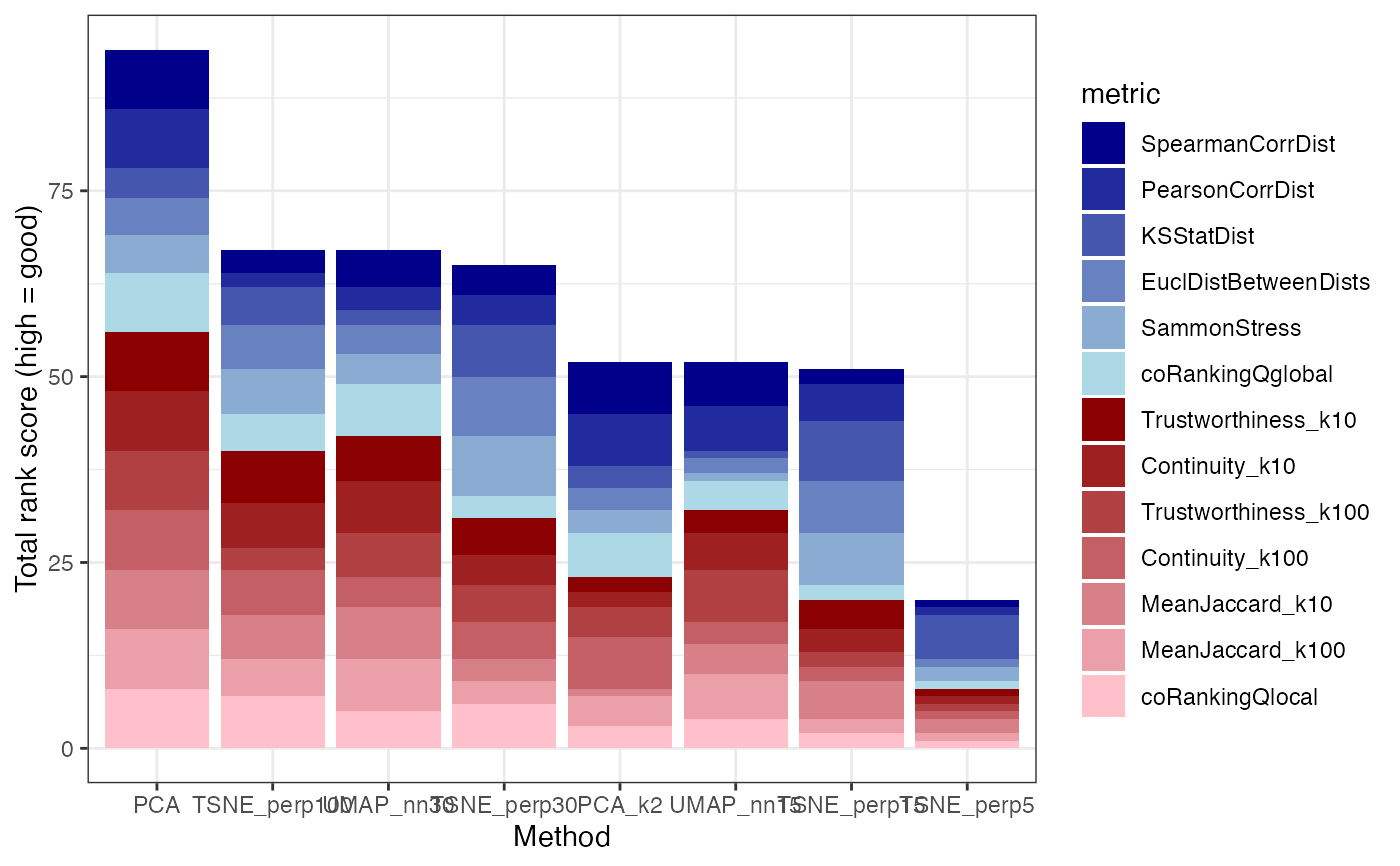
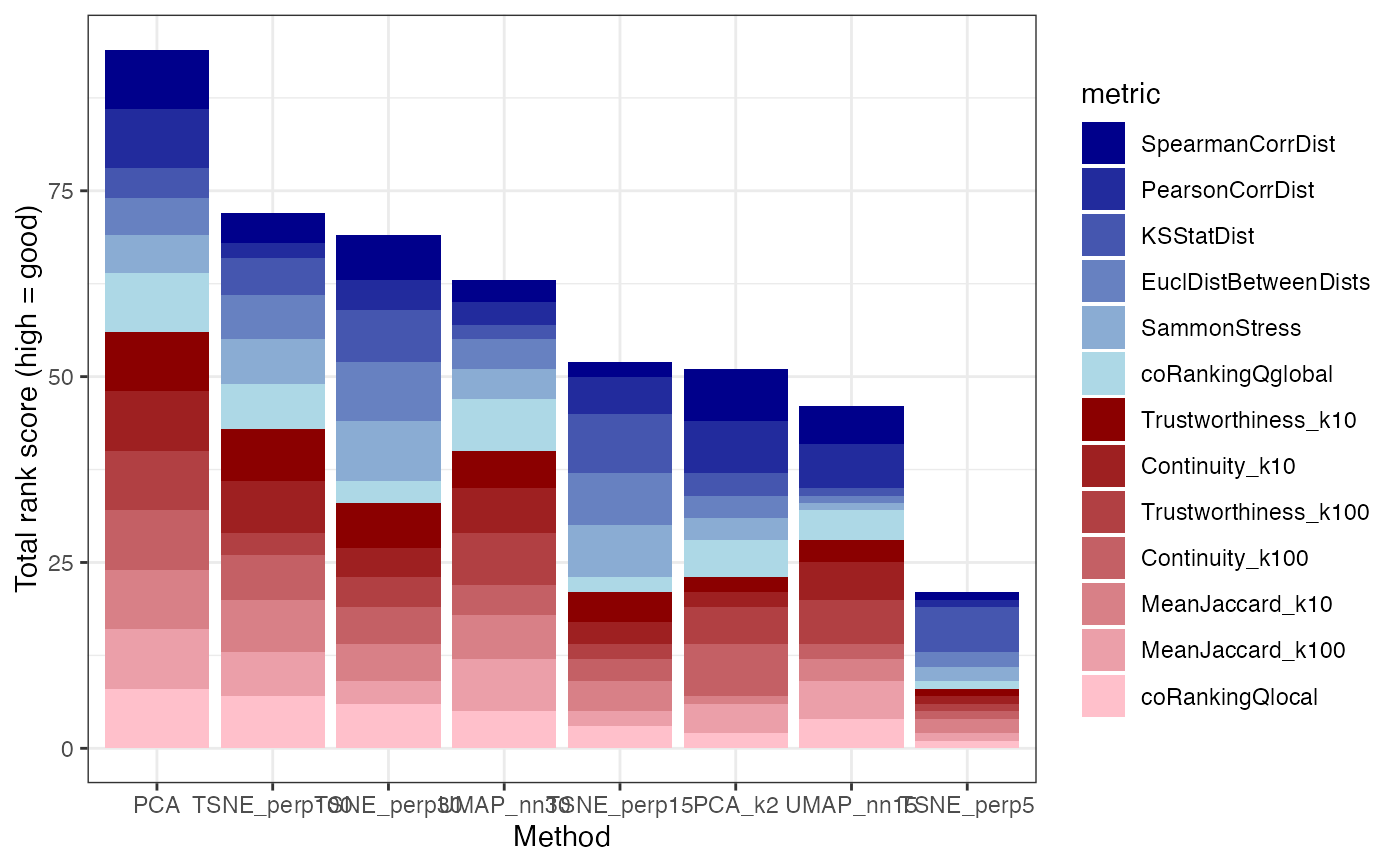
Built site for dreval@0.1.6: b1e7674

Changed region(s): [[0.1536, 0.2182, 0.7371, 0.873], [0.215, 0.9042, 0.645, 0.9353]]

diff --git a/articles/dreval.html b/articles/dreval.html
@@ -90,7 +90,7 @@
                         <h4 data-toc-skip class="author">Charlotte
 Soneson</h4>
             
-            <h4 data-toc-skip class="date">2025-07-17</h4>
+            <h4 data-toc-skip class="date">2026-06-12</h4>
       
       <small class="dont-index">Source: <a href="https://github.com/csoneson/dreval/blob/master/vignettes/dreval.Rmd" class="external-link"><code>vignettes/dreval.Rmd</code></a></small>
       <div class="hidden name"><code>dreval.Rmd</code></div>
@@ -201,14 +201,14 @@ visually with the <code><a href="../reference/plotRankSummary.html">plotRankSumm
 <span><span class="co">#&gt; <span style="color: #00BBBB;">ℹ</span> Please use `after_stat(density)` instead.</span></span>
 <span><span class="co">#&gt; <span style="color: #00BBBB;">ℹ</span> The deprecated feature was likely used in the <span style="color: #0000BB;">dreval</span> package.</span></span>
 <span><span class="co">#&gt;   Please report the issue at <span style="color: #0000BB; font-style: italic;">&lt;https://github.com/csoneson/dreval/issues&gt;</span>.</span></span>
-<span><span class="co">#&gt; <span style="color: #555555;">This warning is displayed once every 8 hours.</span></span></span>
+<span><span class="co">#&gt; <span style="color: #555555;">This warning is displayed once per session.</span></span></span>
 <span><span class="co">#&gt; <span style="color: #555555;">Call `lifecycle::last_lifecycle_warnings()` to see where this warning was</span></span></span>
 <span><span class="co">#&gt; <span style="color: #555555;">generated.</span></span></span></code></pre></div>
-<p><img src="dreval_files/figure-html/unnamed-chunk-4-1.png" width="768"></p>
+<p><img src="dreval_files/figure-html/unnamed-chunk-4-1.png" class="r-plt" alt="" width="768"></p>
 <div class="sourceCode" id="cb5"><pre class="downlit sourceCode r">
 <code class="sourceCode R"><span><span class="fu"><a href="../reference/plotRankSummary.html">plotRankSummary</a></span><span class="op">(</span><span class="va">dre</span><span class="op">$</span><span class="va">scores</span><span class="op">)</span> <span class="op">+</span> </span>
 <span>  <span class="fu"><a href="https://ggplot2.tidyverse.org/reference/theme.html" class="external-link">theme</a></span><span class="op">(</span>axis.text.x <span class="op">=</span> <span class="fu"><a href="https://ggplot2.tidyverse.org/reference/element.html" class="external-link">element_text</a></span><span class="op">(</span>angle <span class="op">=</span> <span class="fl">45</span>, hjust <span class="op">=</span> <span class="fl">1</span>, vjust <span class="op">=</span> <span class="fl">1</span><span class="op">)</span><span class="op">)</span></span></code></pre></div>
-<p><img src="dreval_files/figure-html/unnamed-chunk-5-1.png" width="576"></p>
+<p><img src="dreval_files/figure-html/unnamed-chunk-5-1.png" class="r-plt" alt="" width="576"></p>
 </div>
 <div class="section level2">
 <h2 id="using-a-reduced-dimension-representation-as-the-reference-space">Using a reduced dimension representation as the reference space<a class="anchor" aria-label="anchor" href="#using-a-reduced-dimension-representation-as-the-reference-space"></a>
@@ -260,11 +260,11 @@ as we will illustrate here.</p>
 <span><span class="co">#&gt; D...7       0.4691012        0.2962409       50</span></span>
 <span><span class="fu">cowplot</span><span class="fu">::</span><span class="fu"><a href="https://wilkelab.org/cowplot/reference/plot_grid.html" class="external-link">plot_grid</a></span><span class="op">(</span>plotlist <span class="op">=</span> <span class="fu"><a href="https://rdrr.io/r/base/lapply.html" class="external-link">lapply</a></span><span class="op">(</span><span class="va">dre</span><span class="op">$</span><span class="va">plots</span><span class="op">$</span><span class="va">disthex</span>, <span class="kw">function</span><span class="op">(</span><span class="va">w</span><span class="op">)</span> <span class="va">w</span> <span class="op">+</span> </span>
 <span>  <span class="fu"><a href="https://ggplot2.tidyverse.org/reference/theme.html" class="external-link">theme</a></span><span class="op">(</span>axis.title <span class="op">=</span> <span class="fu"><a href="https://ggplot2.tidyverse.org/reference/element.html" class="external-link">element_text</a></span><span class="op">(</span>size <span class="op">=</span> <span class="fl">7</span><span class="op">)</span><span class="op">)</span><span class="op">)</span>, ncol <span class="op">=</span> <span class="fl">2</span><span class="op">)</span></span></code></pre></div>
-<p><img src="dreval_files/figure-html/unnamed-chunk-7-1.png" width="768"></p>
+<p><img src="dreval_files/figure-html/unnamed-chunk-7-1.png" class="r-plt" alt="" width="768"></p>
 <div class="sourceCode" id="cb8"><pre class="downlit sourceCode r">
 <code class="sourceCode R"><span><span class="fu"><a href="../reference/plotRankSummary.html">plotRankSummary</a></span><span class="op">(</span><span class="va">dre</span><span class="op">$</span><span class="va">scores</span><span class="op">)</span> <span class="op">+</span> </span>
 <span>  <span class="fu"><a href="https://ggplot2.tidyverse.org/reference/theme.html" class="external-link">theme</a></span><span class="op">(</span>axis.text.x <span class="op">=</span> <span class="fu"><a href="https://ggplot2.tidyverse.org/reference/element.html" class="external-link">element_text</a></span><span class="op">(</span>angle <span class="op">=</span> <span class="fl">45</span>, hjust <span class="op">=</span> <span class="fl">1</span>, vjust <span class="op">=</span> <span class="fl">1</span><span class="op">)</span><span class="op">)</span></span></code></pre></div>
-<p><img src="dreval_files/figure-html/unnamed-chunk-8-1.png" width="576"></p>
+<p><img src="dreval_files/figure-html/unnamed-chunk-8-1.png" class="r-plt" alt="" width="576"></p>
 </div>
 <div class="section level2">
 <h2 id="computational-efficiency">Computational efficiency<a class="anchor" aria-label="anchor" href="#computational-efficiency"></a>
@@ -314,13 +314,13 @@ calculated metrics are stable under subsampling of cells.</p>
 </h2>
 <div class="sourceCode" id="cb10"><pre class="downlit sourceCode r">
 <code class="sourceCode R"><span><span class="fu"><a href="https://rdrr.io/r/utils/sessionInfo.html" class="external-link">sessionInfo</a></span><span class="op">(</span><span class="op">)</span></span>
-<span><span class="co">#&gt; R version 4.5.1 (2025-06-13)</span></span>
-<span><span class="co">#&gt; Platform: aarch64-apple-darwin20</span></span>
-<span><span class="co">#&gt; Running under: macOS Sonoma 14.7.6</span></span>
+<span><span class="co">#&gt; R version 4.6.0 (2026-04-24)</span></span>
+<span><span class="co">#&gt; Platform: aarch64-apple-darwin23</span></span>
+<span><span class="co">#&gt; Running under: macOS Sequoia 15.7.7</span></span>
 <span><span class="co">#&gt; </span></span>
 <span><span class="co">#&gt; Matrix products: default</span></span>
-<span><span class="co">#&gt; BLAS:   /Library/Frameworks/R.framework/Versions/4.5-arm64/Resources/lib/libRblas.0.dylib </span></span>
-<span><span class="co">#&gt; LAPACK: /Library/Frameworks/R.framework/Versions/4.5-arm64/Resources/lib/libRlapack.dylib;  LAPACK version 3.12.1</span></span>
+<span><span class="co">#&gt; BLAS:   /Library/Frameworks/R.framework/Versions/4.6/Resources/lib/libRblas.0.dylib </span></span>
+<span><span class="co">#&gt; LAPACK: /Library/Frameworks/R.framework/Versions/4.6/Resources/lib/libRlapack.dylib;  LAPACK version 3.12.1</span></span>
 <span><span class="co">#&gt; </span></span>
 <span><span class="co">#&gt; locale:</span></span>
 <span><span class="co">#&gt; [1] en_US.UTF-8/en_US.UTF-8/en_US.UTF-8/C/en_US.UTF-8/en_US.UTF-8</span></span>
@@ -332,46 +332,45 @@ calculated metrics are stable under subsampling of cells.</p>
 <span><span class="co">#&gt; [1] stats     graphics  grDevices utils     datasets  methods   base     </span></span>
 <span><span class="co">#&gt; </span></span>
 <span><span class="co">#&gt; other attached packages:</span></span>
-<span><span class="co">#&gt; [1] ggplot2_3.5.2 dreval_0.1.6 </span></span>
+<span><span class="co">#&gt; [1] ggplot2_4.0.3 dreval_0.1.6 </span></span>
 <span><span class="co">#&gt; </span></span>
 <span><span class="co">#&gt; loaded via a namespace (and not attached):</span></span>
-<span><span class="co">#&gt;  [1] SummarizedExperiment_1.38.1 gtable_0.3.6               </span></span>
-<span><span class="co">#&gt;  [3] xfun_0.52                   bslib_0.9.0                </span></span>
-<span><span class="co">#&gt;  [5] sparsesvd_0.2-2             Biobase_2.68.0             </span></span>
-<span><span class="co">#&gt;  [7] lattice_0.22-7              vctrs_0.6.5                </span></span>
-<span><span class="co">#&gt;  [9] tools_4.5.1                 generics_0.1.4             </span></span>
-<span><span class="co">#&gt; [11] stats4_4.5.1                tibble_3.3.0               </span></span>
-<span><span class="co">#&gt; [13] cluster_2.1.8.1             pkgconfig_2.0.3            </span></span>
-<span><span class="co">#&gt; [15] Matrix_1.7-3                RColorBrewer_1.1-3         </span></span>
-<span><span class="co">#&gt; [17] desc_1.4.3                  S4Vectors_0.46.0           </span></span>
-<span><span class="co">#&gt; [19] lifecycle_1.0.4             GenomeInfoDbData_1.2.14    </span></span>
-<span><span class="co">#&gt; [21] compiler_4.5.1              farver_2.1.2               </span></span>
-<span><span class="co">#&gt; [23] iotools_0.3-5               textshaping_1.0.1          </span></span>
-<span><span class="co">#&gt; [25] coRanking_0.2.5             GenomeInfoDb_1.44.0        </span></span>
-<span><span class="co">#&gt; [27] htmltools_0.5.8.1           sass_0.4.10                </span></span>
-<span><span class="co">#&gt; [29] yaml_2.3.10                 hexbin_1.28.5              </span></span>
-<span><span class="co">#&gt; [31] pillar_1.11.0               pkgdown_2.1.3.9000         </span></span>
-<span><span class="co">#&gt; [33] crayon_1.5.3                jquerylib_0.1.4            </span></span>
-<span><span class="co">#&gt; [35] tidyr_1.3.1                 MASS_7.3-65                </span></span>
-<span><span class="co">#&gt; [37] SingleCellExperiment_1.30.1 DelayedArray_0.34.1        </span></span>
-<span><span class="co">#&gt; [39] cachem_1.1.0                abind_1.4-8                </span></span>
-<span><span class="co">#&gt; [41] tidyselect_1.2.1            digest_0.6.37              </span></span>
-<span><span class="co">#&gt; [43] dplyr_1.1.4                 purrr_1.1.0                </span></span>
-<span><span class="co">#&gt; [45] labeling_0.4.3              cowplot_1.2.0              </span></span>
-<span><span class="co">#&gt; [47] fastmap_1.2.0               grid_4.5.1                 </span></span>
-<span><span class="co">#&gt; [49] cli_3.6.5                   SparseArray_1.8.0          </span></span>
-<span><span class="co">#&gt; [51] magrittr_2.0.3              S4Arrays_1.8.1             </span></span>
-<span><span class="co">#&gt; [53] withr_3.0.2                 UCSC.utils_1.4.0           </span></span>
-<span><span class="co">#&gt; [55] scales_1.4.0                rmarkdown_2.29             </span></span>
-<span><span class="co">#&gt; [57] XVector_0.48.0              httr_1.4.7                 </span></span>
-<span><span class="co">#&gt; [59] matrixStats_1.5.0           ragg_1.4.0                 </span></span>
-<span><span class="co">#&gt; [61] evaluate_1.0.4              knitr_1.50                 </span></span>
-<span><span class="co">#&gt; [63] GenomicRanges_1.60.0        IRanges_2.42.0             </span></span>
-<span><span class="co">#&gt; [65] rlang_1.1.6                 Rcpp_1.1.0                 </span></span>
-<span><span class="co">#&gt; [67] wordspace_0.2-8             glue_1.8.0                 </span></span>
-<span><span class="co">#&gt; [69] BiocGenerics_0.54.0         jsonlite_2.0.0             </span></span>
-<span><span class="co">#&gt; [71] R6_2.6.1                    MatrixGenerics_1.20.0      </span></span>
-<span><span class="co">#&gt; [73] systemfonts_1.2.3           fs_1.6.6</span></span></code></pre></div>
+<span><span class="co">#&gt;  [1] SummarizedExperiment_1.42.0 gtable_0.3.6               </span></span>
+<span><span class="co">#&gt;  [3] xfun_0.58                   bslib_0.11.0               </span></span>
+<span><span class="co">#&gt;  [5] sparsesvd_0.2-3             Biobase_2.72.0             </span></span>
+<span><span class="co">#&gt;  [7] lattice_0.22-9              vctrs_0.7.3                </span></span>
+<span><span class="co">#&gt;  [9] tools_4.6.0                 generics_0.1.4             </span></span>
+<span><span class="co">#&gt; [11] stats4_4.6.0                tibble_3.3.1               </span></span>
+<span><span class="co">#&gt; [13] cluster_2.1.8.2             pkgconfig_2.0.3            </span></span>
+<span><span class="co">#&gt; [15] Matrix_1.7-5                RColorBrewer_1.1-3         </span></span>
+<span><span class="co">#&gt; [17] S7_0.2.2                    desc_1.4.3                 </span></span>
+<span><span class="co">#&gt; [19] S4Vectors_0.50.1            lifecycle_1.0.5            </span></span>
+<span><span class="co">#&gt; [21] compiler_4.6.0              farver_2.1.2               </span></span>
+<span><span class="co">#&gt; [23] iotools_0.4-0               textshaping_1.0.5          </span></span>
+<span><span class="co">#&gt; [25] Seqinfo_1.2.0               coRanking_0.2.5            </span></span>
+<span><span class="co">#&gt; [27] htmltools_0.5.9             sass_0.4.10                </span></span>
+<span><span class="co">#&gt; [29] yaml_2.3.12                 hexbin_1.28.5              </span></span>
+<span><span class="co">#&gt; [31] pillar_1.11.1               pkgdown_2.2.0.9000         </span></span>
+<span><span class="co">#&gt; [33] jquerylib_0.1.4             tidyr_1.3.2                </span></span>
+<span><span class="co">#&gt; [35] MASS_7.3-65                 SingleCellExperiment_1.34.0</span></span>
+<span><span class="co">#&gt; [37] DelayedArray_0.38.2         cachem_1.1.0               </span></span>
+<span><span class="co">#&gt; [39] abind_1.4-8                 tidyselect_1.2.1           </span></span>
+<span><span class="co">#&gt; [41] digest_0.6.39               dplyr_1.2.1                </span></span>
+<span><span class="co">#&gt; [43] purrr_1.2.2                 labeling_0.4.3             </span></span>
+<span><span class="co">#&gt; [45] cowplot_1.2.0               fastmap_1.2.0              </span></span>
+<span><span class="co">#&gt; [47] grid_4.6.0                  cli_3.6.6                  </span></span>
+<span><span class="co">#&gt; [49] SparseArray_1.12.2          magrittr_2.0.5             </span></span>
+<span><span class="co">#&gt; [51] S4Arrays_1.12.0             withr_3.0.2                </span></span>
+<span><span class="co">#&gt; [53] scales_1.4.0                rmarkdown_2.31             </span></span>
+<span><span class="co">#&gt; [55] XVector_0.52.0              matrixStats_1.5.0          </span></span>
+<span><span class="co">#&gt; [57] otel_0.2.0                  ragg_1.5.2                 </span></span>
+<span><span class="co">#&gt; [59] evaluate_1.0.5              knitr_1.51                 </span></span>
+<span><span class="co">#&gt; [61] GenomicRanges_1.64.0        IRanges_2.46.0             </span></span>
+<span><span class="co">#&gt; [63] rlang_1.2.0                 Rcpp_1.1.1-1.1             </span></span>
+<span><span class="co">#&gt; [65] wordspace_0.2-9             glue_1.8.1                 </span></span>
+<span><span class="co">#&gt; [67] BiocGenerics_0.58.1         jsonlite_2.0.0             </span></span>
+<span><span class="co">#&gt; [69] R6_2.6.1                    MatrixGenerics_1.24.0      </span></span>
+<span><span class="co">#&gt; [71] systemfonts_1.3.2           fs_2.1.0</span></span></code></pre></div>
 </div>
 <div class="section level2">
 <h2 id="references">References<a class="anchor" aria-label="anchor" href="#references"></a>
@@ -394,7 +393,7 @@ calculated metrics are stable under subsampling of cells.</p>
 
 <div class="pkgdown">
   <p></p>
-<p>Site built with <a href="https://pkgdown.r-lib.org/" class="external-link">pkgdown</a> 2.1.3.9000.</p>
+<p>Site built with <a href="https://pkgdown.r-lib.org/" class="external-link">pkgdown</a> 2.2.0.9000.</p>
 </div>
 
       </footer>

diff --git a/authors.html b/authors.html
@@ -80,14 +80,14 @@
     </div>
 
 
-    <p>Soneson C (2025).
+    <p>Soneson C (2026).
 <em>dreval: Evaluate Reduced Dimension Representations</em>.
 R package version 0.1.6, <a href="https://github.com/csoneson/dreval" class="external-link">https://github.com/csoneson/dreval</a>.
 </p>
     <pre>@Manual{,
   title = {dreval: Evaluate Reduced Dimension Representations},
   author = {Charlotte Soneson},
-  year = {2025},
+  year = {2026},
   note = {R package version 0.1.6},
   url = {https://github.com/csoneson/dreval},
 }</pre>
@@ -103,7 +103,7 @@ R package version 0.1.6, <a href="https://github.com/csoneson/dreval" class="ext
 </div>
 
 <div class="pkgdown">
-  <p></p><p>Site built with <a href="https://pkgdown.r-lib.org/" class="external-link">pkgdown</a> 2.1.3.9000.</p>
+  <p></p><p>Site built with <a href="https://pkgdown.r-lib.org/" class="external-link">pkgdown</a> 2.2.0.9000.</p>
 </div>
 
       </footer></div>

diff --git a/404.html b/404.html
@@ -109,7 +109,7 @@ Content not found. Please use links in the navbar.
 
 <div class="pkgdown">
   <p></p>
-<p>Site built with <a href="https://pkgdown.r-lib.org/" class="external-link">pkgdown</a> 2.1.3.9000.</p>
+<p>Site built with <a href="https://pkgdown.r-lib.org/" class="external-link">pkgdown</a> 2.2.0.9000.</p>
 </div>
 
       </footer>

diff --git a/LICENSE-text.html b/LICENSE-text.html
@@ -84,7 +84,7 @@ COPYRIGHT HOLDER: Charlotte Soneson
 </div>
 
 <div class="pkgdown">
-  <p></p><p>Site built with <a href="https://pkgdown.r-lib.org/" class="external-link">pkgdown</a> 2.1.3.9000.</p>
+  <p></p><p>Site built with <a href="https://pkgdown.r-lib.org/" class="external-link">pkgdown</a> 2.2.0.9000.</p>
 </div>
 
       </footer></div>

diff --git a/LICENSE.html b/LICENSE.html
@@ -88,7 +88,7 @@
 </div>
 
 <div class="pkgdown">
-  <p></p><p>Site built with <a href="https://pkgdown.r-lib.org/" class="external-link">pkgdown</a> 2.1.3.9000.</p>
+  <p></p><p>Site built with <a href="https://pkgdown.r-lib.org/" class="external-link">pkgdown</a> 2.2.0.9000.</p>
 </div>
 
       </footer></div>

diff --git a/articles/index.html b/articles/index.html
@@ -81,7 +81,7 @@
 </div>
 
 <div class="pkgdown">
-  <p></p><p>Site built with <a href="https://pkgdown.r-lib.org/" class="external-link">pkgdown</a> 2.1.3.9000.</p>
+  <p></p><p>Site built with <a href="https://pkgdown.r-lib.org/" class="external-link">pkgdown</a> 2.2.0.9000.</p>
 </div>
 
       </footer></div>

diff --git a/index.html b/index.html
@@ -170,7 +170,7 @@
 
 <div class="pkgdown">
   <p></p>
-<p>Site built with <a href="https://pkgdown.r-lib.org/" class="external-link">pkgdown</a> 2.1.3.9000.</p>
+<p>Site built with <a href="https://pkgdown.r-lib.org/" class="external-link">pkgdown</a> 2.2.0.9000.</p>
 </div>
 
       </footer>

diff --git a/news/index.html b/news/index.html
@@ -92,7 +92,7 @@
 </div>
 
 <div class="pkgdown">
-  <p></p><p>Site built with <a href="https://pkgdown.r-lib.org/" class="external-link">pkgdown</a> 2.1.3.9000.</p>
+  <p></p><p>Site built with <a href="https://pkgdown.r-lib.org/" class="external-link">pkgdown</a> 2.2.0.9000.</p>
 </div>
 
       </footer></div>

diff --git a/reference/calcContinuityFromDist.html b/reference/calcContinuityFromDist.html
@@ -137,7 +137,7 @@ For each column, samples (rows) will be ranked by the provided distances.</p></d
 </div>
 
 <div class="pkgdown">
-  <p></p><p>Site built with <a href="https://pkgdown.r-lib.org/" class="external-link">pkgdown</a> 2.1.3.9000.</p>
+  <p></p><p>Site built with <a href="https://pkgdown.r-lib.org/" class="external-link">pkgdown</a> 2.2.0.9000.</p>
 </div>
 
       </footer></div>

diff --git a/reference/calcContinuityFromRank.html b/reference/calcContinuityFromRank.html
@@ -140,7 +140,7 @@ on the low-dimensional representation. The sample itself has rank 0.</p></dd>
 </div>
 
 <div class="pkgdown">
-  <p></p><p>Site built with <a href="https://pkgdown.r-lib.org/" class="external-link">pkgdown</a> 2.1.3.9000.</p>
+  <p></p><p>Site built with <a href="https://pkgdown.r-lib.org/" class="external-link">pkgdown</a> 2.2.0.9000.</p>
 </div>
 
       </footer></div>

diff --git a/reference/calcTrustworthinessFromDist.html b/reference/calcTrustworthinessFromDist.html
@@ -137,7 +137,7 @@ For each column, samples (rows) will be ranked by the provided distances.</p></d
 </div>
 
 <div class="pkgdown">
-  <p></p><p>Site built with <a href="https://pkgdown.r-lib.org/" class="external-link">pkgdown</a> 2.1.3.9000.</p>
+  <p></p><p>Site built with <a href="https://pkgdown.r-lib.org/" class="external-link">pkgdown</a> 2.2.0.9000.</p>
 </div>
 
       </footer></div>

diff --git a/reference/calcTrustworthinessFromRank.html b/reference/calcTrustworthinessFromRank.html
@@ -141,7 +141,7 @@ itself has rank 0.</p></dd>
 </div>
 
 <div class="pkgdown">
-  <p></p><p>Site built with <a href="https://pkgdown.r-lib.org/" class="external-link">pkgdown</a> 2.1.3.9000.</p>
+  <p></p><p>Site built with <a href="https://pkgdown.r-lib.org/" class="external-link">pkgdown</a> 2.2.0.9000.</p>
 </div>
 
       </footer></div>